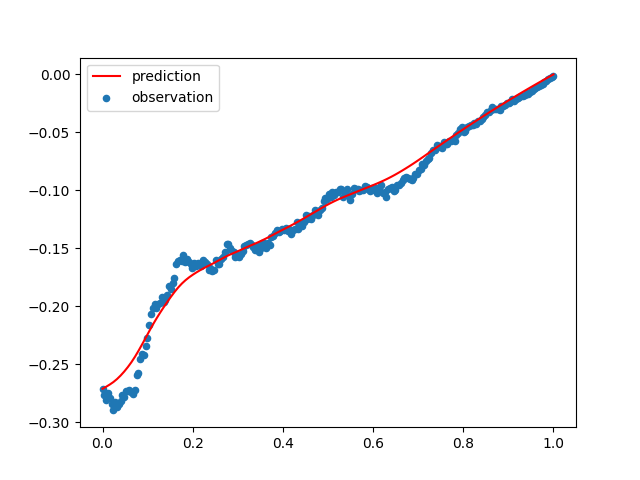
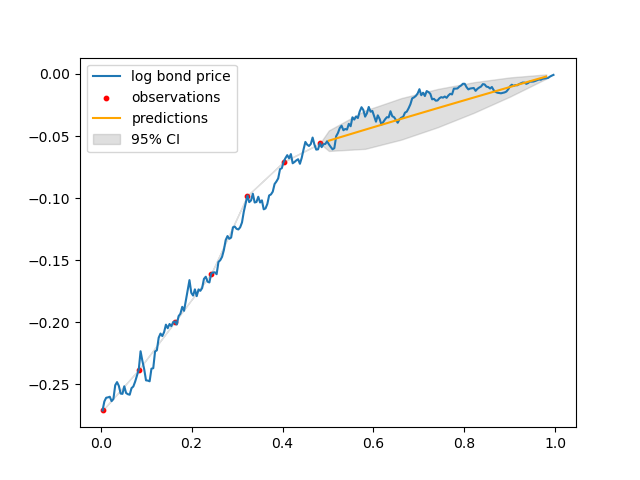
correction for prediction part

diff --git a/main.py b/main.py
@@ -4,42 +4,77 @@ Version: 1.0
 Author: SHAO Nuoya
 Date: 2022-03-16 00:19:40
 LastEditors: SHAO Nuoya
-LastEditTime: 2022-03-16 21:16:42
+LastEditTime: 2022-04-11 01:08:18
 '''
 from single_vasicek import SingleVasicek
 from multiple_vasicek import MultipleVasicek
 from calibration import SingleCalibrate, MultipleCalibrate
 import matplotlib.pyplot as plt
 import numpy as np
+import pandas as pd
 import time
 
+
 #***********************Prediction**************************
-def single_curve_prediction():
+def single_curve_prediction(CI=0.95):
     VS = SingleVasicek()
 
     ts = np.linspace(0, 1, VS.T)[1:-1]
-    ts_test = np.linspace(0, 1, VS.T // 2)
+    observation_index = range(0, len(ts) // 2, 20)
+    prediction_index = range(len(ts) // 2, len(ts), 20)
 
-    rts = VS.generate_rt(ts)
-    y = VS.Log_Pt(rts)
+    ts_observation = ts[observation_index]
+    ts_prediction = ts[prediction_index]
 
-    MuY_ = VS.mu(ts_test)
-    MuY = VS.mu(ts)
+    rs = VS.generate_rt(ts)  # daily rate array
 
-    SigmaY_Y = VS.Sigma(ts_test, ts)
-    SigmaYY_ = VS.Sigma(ts, ts_test)
-    SigmaY_Y_ = VS.Sigma(ts_test, ts_test)
-    SigmaYY = VS.Sigma(ts, ts, np.var(y))
+    # daily log bond price array
+    log_Pt = VS.Log_Pt(rs)
+    log_Pt_observation = log_Pt[observation_index]
 
-    mu_ = MuY_ + SigmaY_Y @ np.linalg.inv(SigmaYY) @ (y - MuY)
+    MuY = VS.mu(ts_observation)  # expectation of log bond price (observations)
+    MuY_ = VS.mu(ts_prediction)  # expectation of log bond price (predictions)
+
+    SigmaY_Y = VS.Sigma(ts_prediction, ts_observation)
+    SigmaYY_ = VS.Sigma(ts_observation, ts_prediction)
+    SigmaY_Y_ = VS.Sigma(ts_prediction, ts_prediction)
+    SigmaYY = VS.Sigma(ts_observation, ts_observation)
+
+    # conditional expectation of log bond price (predictions)
+    mu_ = MuY_ + SigmaY_Y @ np.linalg.inv(SigmaYY) @ (log_Pt_observation - MuY)
     Sigma_ = SigmaY_Y_ - SigmaY_Y @ np.linalg.inv(SigmaYY) @ SigmaYY_
-    
-    #todo confidence interval to draw
-    plt.scatter(ts, y, s=20, label='observation')
-    plt.plot(ts_test, mu_, color='red', label='prediction')
+
+    plt.plot(ts, log_Pt, label='log bond price')
+    plt.scatter(ts_observation,
+                log_Pt_observation,
+                s=10,
+                color='red',
+                label='observations')
+    plt.plot(ts_prediction, mu_, color='orange', label='predictions')
+
+    var = CI * np.sqrt(np.diagonal(Sigma_).reshape(-1, 1))
+    low_CI_bound = list((mu_ - var).flatten())
+    high_CI_bound = list((mu_ + var).flatten())
+
+    CI_df = pd.DataFrame.from_dict({
+        "CI_x":
+        list(ts_prediction) + (list(ts_observation)),
+        "CI_y1":
+        low_CI_bound + list(log_Pt_observation.flatten()),
+        "CI_y2":
+        high_CI_bound + list(log_Pt_observation.flatten())
+    }).sort_values(by="CI_x")
+
+    plt.fill_between(CI_df["CI_x"].values,
+                     CI_df["CI_y1"].values,
+                     CI_df["CI_y2"].values,
+                     color='gray',
+                     alpha=0.25,
+                     label='95% CI')
     plt.legend()
-    #plt.savefig('Single.png')
+    # plt.savefig('Single.png')
     plt.show()
+
 
 #*************************Calibration***************************
 def calibrate(curve='single', method='CG'):
@@ -47,17 +82,26 @@ def calibrate(curve='single', method='CG'):
         Calibration = SingleCalibrate()
         if method == 'CG':
             para = Calibration.CG_minimize()
-        else:
+        elif method == 'adam':
             para = Calibration.adam_minimize()
-    else:
+    elif curve == 'multiple':
         Calibration = MultipleCalibrate()
         if method == 'CG':
             para = Calibration.CG_minimize()
-        else:
+        elif method == 'adam':
             para = Calibration.adam_minimize()
     print(para)
 
-start = time.time()
-calibrate()
-end = time.time()
-print("Time used : ", end-start)
+
+if __name__ == '__main__':
+    single_curve_prediction()
+
+    # start = time.time()
+    # calibrate(curve='single')
+    # end = time.time()
+    # print("Time used : ", end - start)
+
+    # # start = time.time()
+    # # calibrate(curve='multiple')
+    # # end = time.time()
+    # # print("Time used : ", end-start)

diff --git a/single_vasicek.py b/single_vasicek.py
@@ -4,7 +4,7 @@ Version: 1.0
 Author: SHAO Nuoya
 Date: 2022-03-14 16:11:50
 LastEditors: SHAO Nuoya
-LastEditTime: 2022-03-16 18:56:44
+LastEditTime: 2022-04-10 23:47:12
 '''
 from numpy import exp
 import numpy as np
@@ -33,13 +33,13 @@ class SingleVasicek:
         k, theta, sigma, r0 = self.k, self.theta, self.sigma, self.r0
         res = [r0]
         dt = (ts[-1] - ts[0]) / len(ts)
-        for t in range(1, len(ts)):
+        for _ in range(1, len(ts)):
             r_pre = res[-1]
             r_new = r_pre + k * (
                 theta - r_pre) * dt + sigma * np.random.normal(0, np.sqrt(dt))
             res.append(r_new)
 
-        return res
+        return np.array(res)
 
     def A(self, t):
         k, theta, sigma = self.k, self.theta, self.sigma

diff --git a/multiple_vasicek.py b/multiple_vasicek.py
@@ -4,7 +4,7 @@ Version: 1.0
 Author: SHAO Nuoya
 Date: 2022-03-14 21:18:14
 LastEditors: SHAO Nuoya
-LastEditTime: 2022-03-16 19:02:58
+LastEditTime: 2022-03-17 01:15:53
 '''
 
 from numpy import exp, sqrt
@@ -22,10 +22,10 @@ class MultipleVasicek:
                  theta2=0.03,
                  sigma2=0.8,
                  rho=0.2,
-                 T=252) -> None:
+                 T=127) -> None:
         """
         Args:
-            T (float, optional): maturity. Defaults to 252 days.
+            T (float, optional): maturity. Defaults to 127 days.
         """
         self.r01 = r01
         self.k1 = k1
